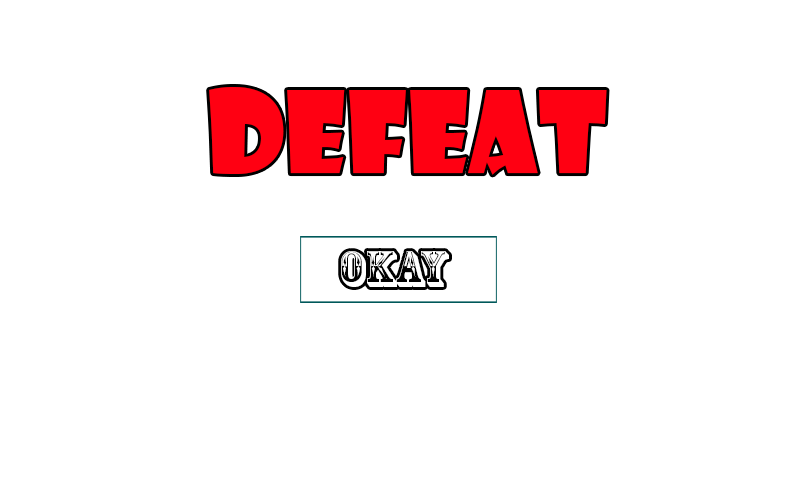
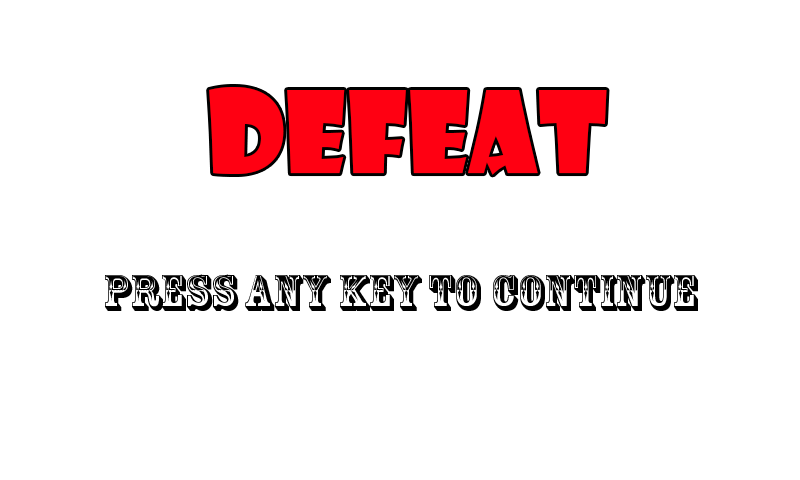
Added cooldown and fixed images
Added a cooldown to prevent the game from resetting immediately and also
fixed the end game images to reflect key press vs mouse click

Changed region(s): [[0.125, 0.4688, 0.875, 0.6562]]

diff --git a/src/cave/fighter/GamePanel.java b/src/cave/fighter/GamePanel.java
@@ -40,7 +40,7 @@ public class GamePanel extends CaveFighterPanel implements KeyListener {
 	public GamePanel() throws IOException {
 		
 		counter = 0;
-		keyCounter = 0;
+		keyCounter = 30;
 		
 		wPressed = false;
 		sPressed = false;
@@ -186,10 +186,12 @@ public class GamePanel extends CaveFighterPanel implements KeyListener {
 			break;
 		case DEAD:
 		case GAME_OVER:
-			if (keyPressed){
-				// TODO: handle the no key cooldown between end of game and end screen
+			if (keyPressed && keyCounter == 0){
 				MainCharacter.getCharacterInstance().resetCharacter();
 				setSwitchPanel(true);
+			}
+			if (keyCounter > 0){
+				keyCounter--;
 			}
 			break;
 		default:
